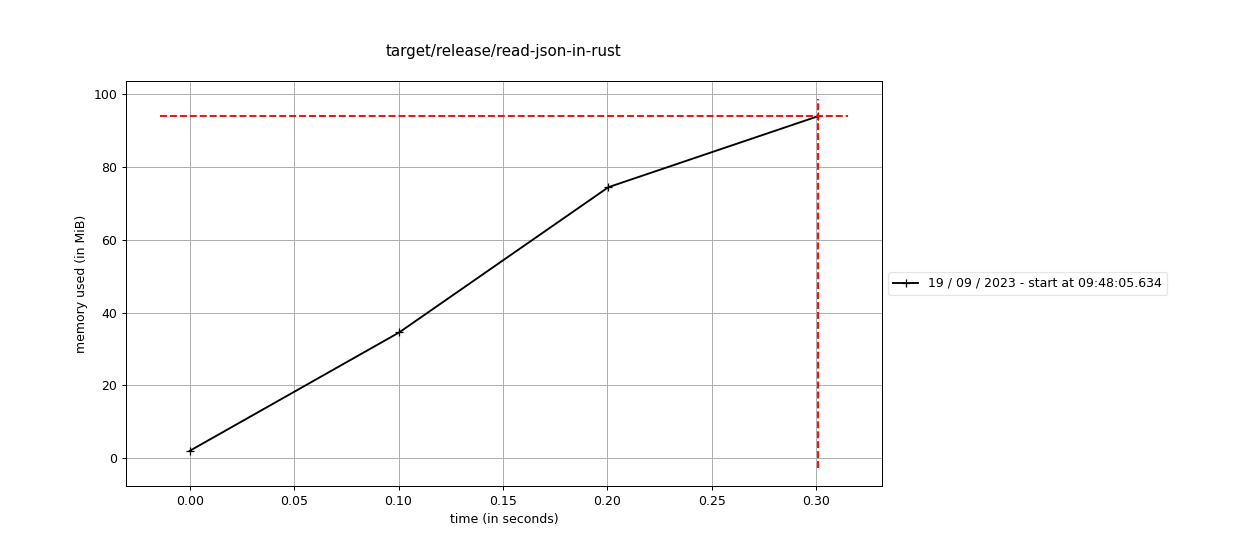
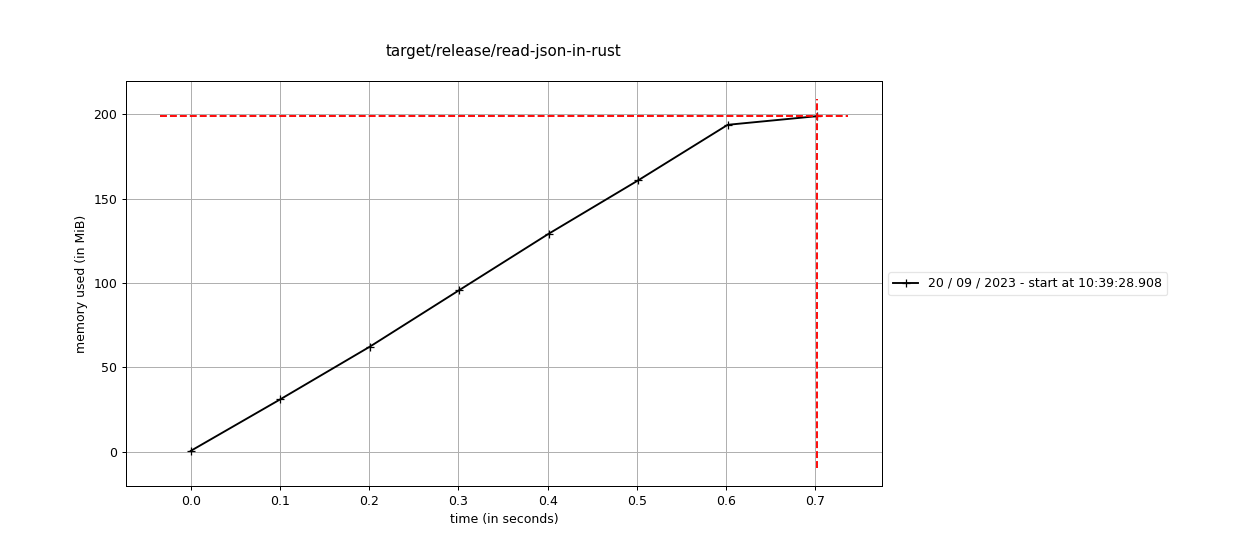
fix: add Makefile to download data

diff --git a/read-json-in-rust/src/main.rs b/read-json-in-rust/src/main.rs
@@ -1,5 +1,6 @@
 use std::fs::File;
 use std::io::BufWriter;
+
 use std::io::Read;
 use std::time::Instant;
 
@@ -11,8 +12,8 @@ fn main() {
     let mut data_source = load_from_file("data/skbl.json");
 
     fn doc_update(doc: &mut Value) {
-        doc["_source"]["lexiconName"] = "skbl2".into();
-        doc["_source"]["lexiconOrder"] = 48.into();
+        doc["lexiconName"] = "skbl2".into();
+        doc["lexiconOrder"] = 48.into();
     }
 
     for doc in &mut data_source {

diff --git a/read-json-in-rust/read_json_in_python.py b/read-json-in-rust/read_json_in_python.py
@@ -9,8 +9,8 @@ def main():
     data_source = load_from_file("data/skbl.json")
 
     def doc_update(doc):
-        doc["_source"]["lexiconName"] = "skbl2"
-        doc["_source"]["lexiconOrder"] = 48
+        doc["lexiconName"] = "skbl2"
+        doc["lexiconOrder"] = 48
         return doc
 
     for doc in data_source:

diff --git a/read-json-in-rust/README.md b/read-json-in-rust/README.md
@@ -1,10 +1,19 @@
 # Read JSON in Rust
 
+> [!NOTE]
+> Updated to use published data instead.
+
 [Rust](https://www.rust-lang.org/) is a system-level programming language that is compiled ahead of time (like Java, Go, C, C++ ,...).
 
 In this tutorial we are going to read JSON, update the data and write to a new file.
 
 You can follow along at your own computer or at [replit.com](https://replit.com)
+
+## Download data
+
+To run the examples, you need some data to work on, the [Makefile](./Makefile) includes recipes to download skbl.json from https://spraakbanken.gu.se and extract the array `entries` using [jq](https://jqlang.github.io/jq/), `make download-data`.
+
+The dataset includes 2059 entries and weights 39 Mb in compacted form.
 
 ## Python example
 
@@ -22,16 +31,16 @@ def main():
     data_source = load_from_file("data/skbl.json")
 
     def doc_update(doc):
-        doc["_source"]["lexiconName"] = "skbl2"
-        doc["_source"]["lexiconOrder"] = 48
+        doc["lexiconName"] = "skbl2"
+        doc["lexiconOrder"] = 48
         return doc
 
     for doc in data_source:
         doc_update(doc)
 
-    dump_to_file(data_source, "data/skbl2_py.json")
+    dump_to_file(data_source, "data/skbl2_python.json")
 
-    elapsed  = time.perf_counter() - start
+    elapsed = time.perf_counter() - start
     print(f"Elapsed time: {elapsed} s")
 
 
@@ -51,7 +60,7 @@ if __name__ == "__main__":
 When running it we get this:
 ```bash
 > python read_json_in_rust.py
-Elapsed time: 0.7634601149984519 s
+Elapsed time: 1.792407828004798 s
 ```
 Memory usage:
 ![Memory usage of python program](./python_memory_usage.png)
@@ -97,8 +106,7 @@ use std::time::Instant;
 fn main() {
     let start = Instant::now();
 
-    let elapsed = Instant::now() - start;
-    println!("Elapsed time {elapsed:?}");
+    println!("Elapsed time {:?}", start.elapsed());
 }
 ```
 
@@ -245,10 +253,10 @@ warning: unused variable: `data_source`
 warning: `read-json-in-rust` (bin "read-json-in-rust") generated 2 warnings (run `cargo fix --bin "read-json-in-rust"` to apply 1 suggestion)
     Finished dev [unoptimized + debuginfo] target(s) in 0.45s
      Running `target/debug/read-json-in-rust`
-Elapsed time 15.914714056s
+Elapsed time 37.309493395s
 ```
 
-Ouch, more than 15 seconds, something must be wrong.
+Ouch, more than 37 seconds, something must be wrong.
 
 Yes, by looking in [the `serde_json` docs for `from_reader`](https://docs.rs/serde_json/latest/serde_json/fn.from_reader.html) we can read:
 > When reading from a source against which short reads are not efficient, such as a File, you will want to apply your own buffering because serde_json will not buffer the input. See std::io::BufReader.
@@ -264,7 +272,7 @@ use serde_json::Value;
 fn load_from_file(path: &str) -> Value {
     let file = File::open(path).expect("a valid path");
     let reader = BufReader::new(file); // (2)
-    serde_json::from_reader(file).expect("successfully parsed JSON")
+    serde_json::from_reader(reader).expect("successfully parsed JSON")
 }
 ```
 
@@ -286,10 +294,10 @@ warning: unused variable: `data_source`
 warning: `read-json-in-rust` (bin "read-json-in-rust") generated 2 warnings (run `cargo fix --bin "read-json-in-rust"` to apply 1 suggestion)
     Finished dev [unoptimized + debuginfo] target(s) in 0.69s
      Running `target/debug/read-json-in-rust`
-Elapsed time 1.749004778s
+Elapsed time 3.713371222s
 ```
 
-Ok, some improvment, from 15.9s to 1.75s, but still twice as slow as `Python`. But let's not bother about that yet.
+Ok, some improvment, from 37.3s to 3.71s, but still twice as slow as `Python`. But let's not bother about that yet.
 
 ## Dump JSON
 
@@ -318,21 +326,22 @@ After a successful `cargo run` we can look at our files:
 
 ```bash
 > ls -l data
-.rw-r--r-- 17M kristoffer  2 maj 14:36  skbl.json
-.rw-r--r-- 16M kristoffer  2 maj 15:14  skbl2_rust.json
+.rw-r--r-- 39M kristoffer  2 maj 14:36  skbl.json
+.rw-r--r-- 42M kristoffer 20 sep 10:27  skbl2_python.json
+.rw-r--r-- 39M kristoffer  2 maj 15:14  skbl2_rust.json
 ```
 
-Ok, we created the file, but it is smaller, why is that?
+Ok, we created the file `skbl2_rust.json`, but it is smaller than `skbl2_python.json`, why is that?
 
-Inspections gives that `skbl.json` is written with ascii and `skbl2_rust.json` uses utf-8.
+Inspections gives that `skbl2_python.json` is written with ascii and `skbl2_rust.json` uses utf-8.
 
 ## Update the data
 
 And of course we want to update the data also. How did we do it in python?
 ```python
     def doc_update(doc):
-        doc["_source"]["lexiconName"] = "skbl2"
-        doc["_source"]["lexiconOrder"] = 48
+        doc["lexiconName"] = "skbl2"
+        doc["lexiconOrder"] = 48
         return doc
 
     for doc in data_source:
@@ -344,8 +353,8 @@ Seems simple, we update the documents in `data_source` directly, let's try that 
 
 ```rust
     fn doc_update(doc: Value) {
-        doc["_source"]["lexiconName"] = "skbl2";
-        doc["_source"]["lexiconOrder"] = 48;
+        doc["lexiconName"] = "skbl2";
+        doc["lexiconOrder"] = 48;
     }
 
     for doc in data_source {
@@ -370,20 +379,20 @@ error[E0277]: `Value` is not an iterator
 error[E0308]: mismatched types
   --> src/main.rs:14:41
    |
-14 |         doc["_source"]["lexiconName"] = "skbl2";
+14 |         doc["lexiconName"] = "skbl2";
    |         -----------------------------   ^^^^^^^ expected `Value`, found `&str`
    |         |
    |         expected due to the type of this binding
    |
 help: call `Into::into` on this expression to convert `&'static str` into `Value`
    |
-14 |         doc["_source"]["lexiconName"] = "skbl2".into();
+14 |         doc["lexiconName"] = "skbl2".into();
    |                                                +++++++
 
 error[E0308]: mismatched types
   --> src/main.rs:15:42
    |
-15 |         doc["_source"]["lexiconOrder"] = 48;
+15 |         doc["lexiconOrder"] = 48;
    |         ------------------------------   ^^ expected `Value`, found integer
    |         |
    |         expected due to the type of this binding
@@ -403,8 +412,8 @@ We begin with the errors `error[E0308]: mismatched types`, the compiler suggests
 So let's follow the help.
 ```rust
     fn doc_update(doc: Value) {
-        doc["_source"]["lexiconName"] = "skbl2".into();
-        doc["_source"]["lexiconOrder"] = 48.into();
+        doc["lexiconName"] = "skbl2".into();
+        doc["lexiconOrder"] = 48.into();
     }
 
     for doc in data_source {
@@ -452,8 +461,8 @@ Rust's `enum`s are quite powerful that let's us associate different types with t
 So adding that gives us:
 ```rust
     fn doc_update(doc: Value) {
-        doc["_source"]["lexiconName"] = "skbl2".into();
-        doc["_source"]["lexiconOrder"] = 48.into();
+        doc["lexiconName"] = "skbl2".into();
+        doc["lexiconOrder"] = 48.into();
     }
 
     for doc in data_source.as_array().expect("an array") {
@@ -492,8 +501,8 @@ Here the suggestion doesn't work for us, we want a borrow to update the document
 So let's try to change `doc_update` to take a borrow.
 ```rust
     fn doc_update(doc: &Value) {
-        doc["_source"]["lexiconName"] = "skbl2".into();
-        doc["_source"]["lexiconOrder"] = 48.into();
+        doc["lexiconName"] = "skbl2".into();
+        doc["lexiconOrder"] = 48.into();
     }
 
     for doc in data_source.as_array().expect("an array") {
@@ -508,7 +517,7 @@ And running it:
 error[E0596]: cannot borrow `*doc` as mutable, as it is behind a `&` reference
   --> src/main.rs:14:9
    |
-14 |         doc["_source"]["lexiconName"] = "skbl2".into();
+14 |         doc["lexiconName"] = "skbl2".into();
    |         ^^^ `doc` is a `&` reference, so the data it refers to cannot be borrowed as mutable
    |
 help: consider changing this to be a mutable reference
@@ -519,7 +528,7 @@ help: consider changing this to be a mutable reference
 error[E0596]: cannot borrow `*doc` as mutable, as it is behind a `&` reference
   --> src/main.rs:15:9
    |
-15 |         doc["_source"]["lexiconOrder"] = 48.into();
+15 |         doc["lexiconOrder"] = 48.into();
    |         ^^^ `doc` is a `&` reference, so the data it refers to cannot be borrowed as mutable
    |
 help: consider changing this to be a mutable reference
@@ -539,8 +548,8 @@ So now we aren't allowed to change doc through a `&Value` reference, but we need
 So if `doc_update` takes a mutable reference
 ```rust
     fn doc_update(doc: &mut Value) {
-        doc["_source"]["lexiconName"] = "skbl2".into();
-        doc["_source"]["lexiconOrder"] = 48.into();
+        doc["lexiconName"] = "skbl2".into();
+        doc["lexiconOrder"] = 48.into();
     }
 
     for doc in data_source.as_array().expect("an array") {
@@ -579,8 +588,8 @@ the `doc` in the `for`-loop is not mutable. So we need the `data_source` as an m
 Let's use that.
 ```rust
     fn doc_update(doc: &mut Value) {
-        doc["_source"]["lexiconName"] = "skbl2".into();
-        doc["_source"]["lexiconOrder"] = 48.into();
+        doc["lexiconName"] = "skbl2".into();
+        doc["lexiconOrder"] = 48.into();
     }
 
     for doc in data_source.as_array_mut().expect("an array") {
@@ -618,10 +627,10 @@ And, bang, it works!
    Compiling read-json-in-rust v0.1.0 (.../dev-tutorials/read-json-in-rust)
     Finished dev [unoptimized + debuginfo] target(s) in 0.31s
      Running `target/debug/read-json-in-rust`
-Elapsed time 2.097109881s
+Elapsed time 4.908370832s
 ```
 
-But the time it took, 2.09 s, what can be done about that?
+But the time it took, almost 5 seconds, what can be done about that?
 
 ## Optimizations
 Let's try with some optimizations, we turn them on by passing `--release` to `cargo run`.
@@ -635,7 +644,7 @@ Let's try with some optimizations, we turn them on by passing `--release` to `ca
    Compiling read-json-in-rust v0.1.0 (.../dev-tutorials/read-json-in-rust)
     Finished release [optimized] target(s) in 4.93s
      Running `target/release/read-json-in-rust`
-Elapsed time 332.653414ms
+Elapsed time 687.616607ms
 ```
 
 Ok, that was better!
@@ -648,13 +657,15 @@ The measure memory usage with [memory-profiler](https://pypi.org/project/memory-
 > mprof run target/release/read-json-in-rust
 mprof: Sampling memory every 0.1s
 running new process
-Elapsed time 298.095577ms
+Elapsed time 730.408381ms
 ```
 Memory usage for the rust program:
 ![Memory usage of rust program](./rust_release_memory_usage.png)
 
-Memory usage for the python program:
+And as reference, the memory usage for the python program:
 ![Memory usage of python program](./python_memory_usage.png)
+
+Rust use slightly more memory but their memory usage is in the same magnitude.
 
 ### Read file to a string
 Sometimes the loading can be improved by reading the whole file to a `String`. Let's try that:
@@ -718,10 +729,15 @@ So let bring it in scope by adding `use std::io::Read`.
    Compiling read-json-in-rust v0.1.0 (.../dev-tutorials/read-json-in-rust)
     Finished release [optimized] target(s) in 0.56s
      Running `target/release/read-json-in-rust`
-Elapsed time 188.196532ms
+Elapsed time 425.541856ms
 ```
 
 Yes, that improved the running time.
+
+How is the memory usage changed?
+
+![Memory usage of rust program read all content to String](./rust_release_string_memory_usage.png)
+
 
 ### Deserialize to Vec directly
 
@@ -751,10 +767,14 @@ Does it matter?
 > cargo run --release
     Finished release [optimized] target(s) in 0.01s
      Running `target/release/read-json-in-rust`
-Elapsed time 188.792043ms
+Elapsed time 408.153712ms
 ```
 
 No, not for the speed. So you can choose what fits your program best.
+
+## Conclusion
+
+We have ported a simple Python program to Rust and seen a speedup by 2.5 to 4.4 times.
 
 ## Next steps
 
